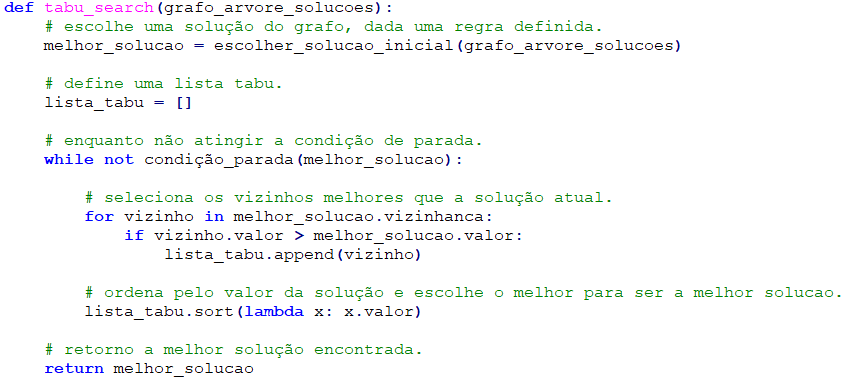
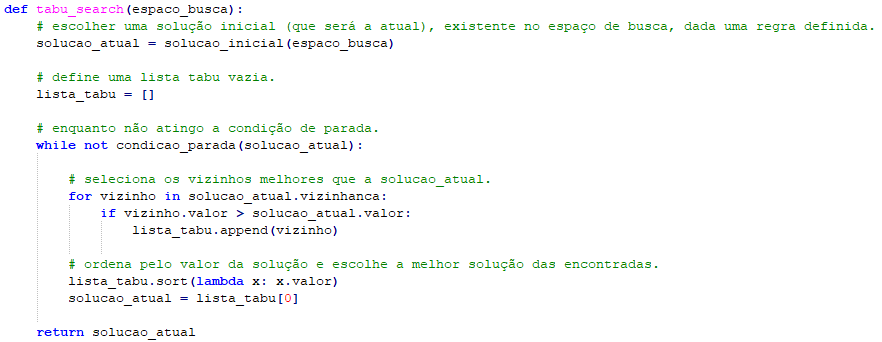
Ajustes no estudo dirigido.

diff --git a/estudo_dirigido/Novo Documento de Texto.py b/estudo_dirigido/Novo Documento de Texto.py
@@ -1,0 +1,26 @@
+def tabu_search(espaco_busca):
+	# escolher uma solução inicial (que será a atual), existente no espaço de busca, dada uma regra definida.
+	solucao_atual = solucao_inicial(espaco_busca)
+	
+	# define uma lista tabu vazia.
+	lista_tabu = []
+	
+	# enquanto não atingo a condição de parada.
+	while not condicao_parada(solucao_atual):
+	
+		# seleciona os vizinhos melhores que a solucao_atual.
+		for vizinho in solucao_atual.vizinhanca:
+			if vizinho.valor > solucao_atual.valor:
+				lista_tabu.append(vizinho)
+				
+		# ordena pelo valor da solução e escolhe a melhor solução das encontradas.
+		lista_tabu.sort(lambda x: x.valor)
+		solucao_atual = lista_tabu[0]
+		
+	return solucao_atual
+	
+	
+	
+	
+	
+	
